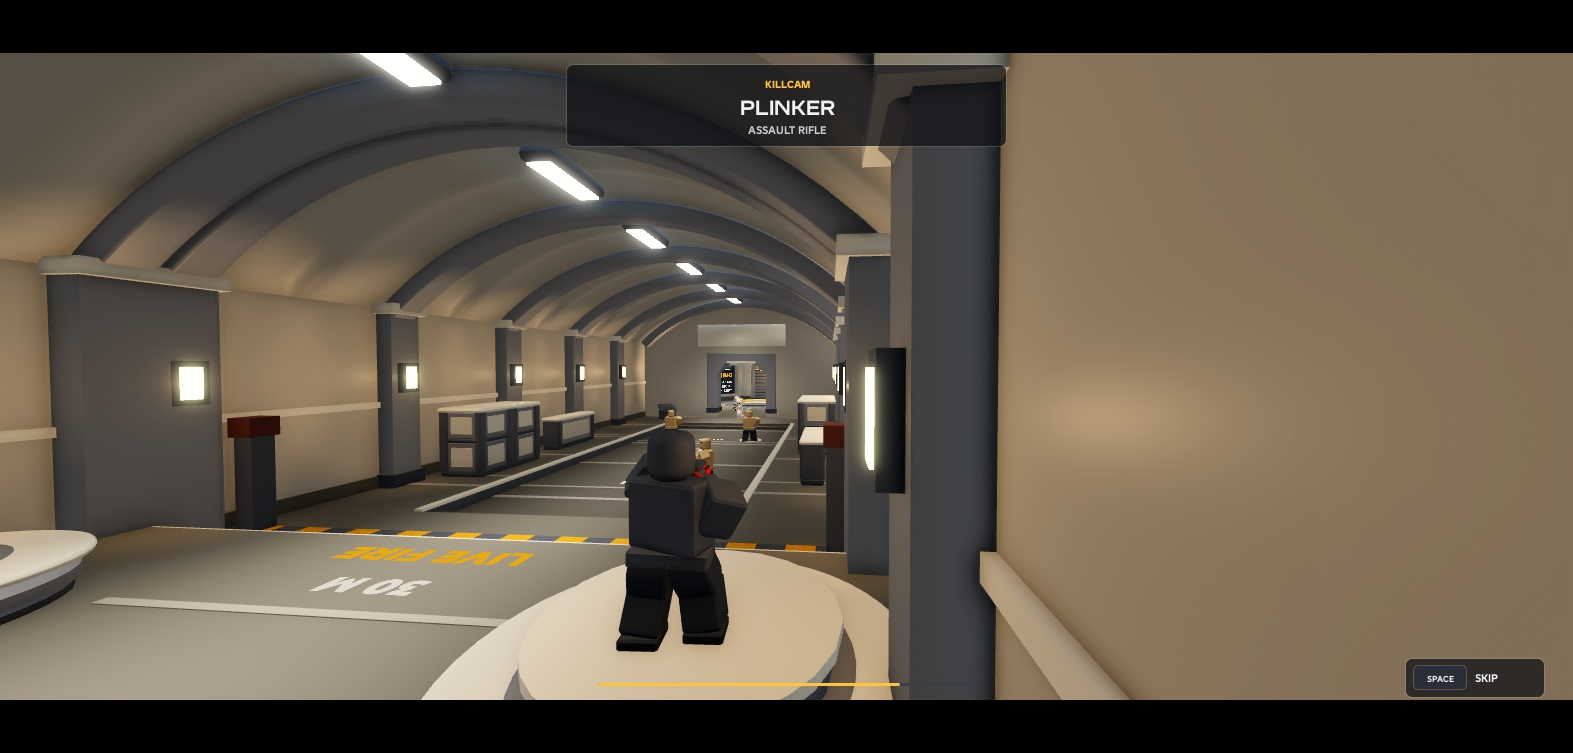
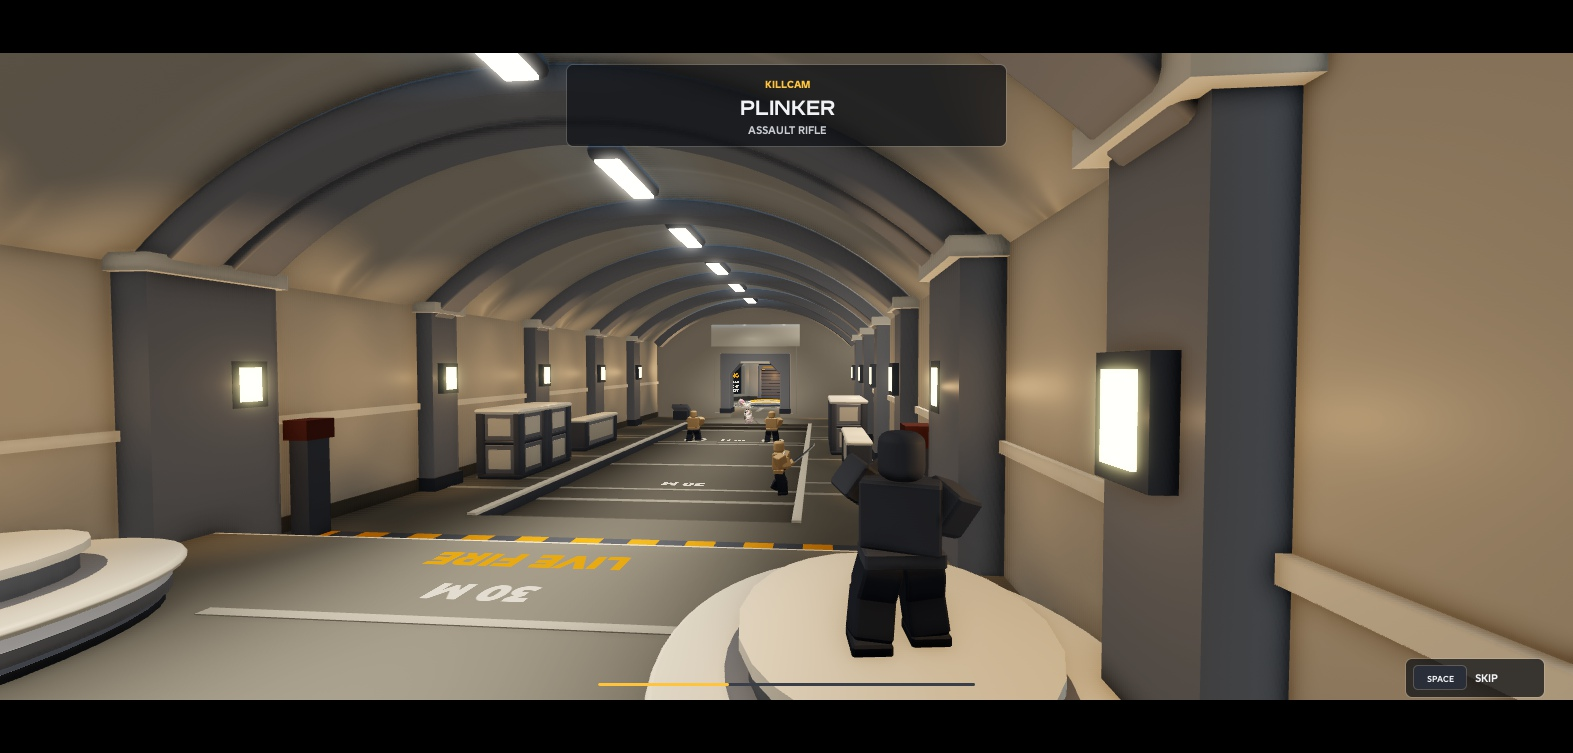
Roblox replays: the camera wants room beside its shoulder and looks nearer from raised spots; photos re-shot (place version 531)

diff --git a/roblox/docs/REPLAY.md b/roblox/docs/REPLAY.md
@@ -71,6 +71,9 @@ clip = {
 
 ![the play of the match](replay/play_of_the_match.jpg)
 ![a killcam](replay/killcam.jpg)
+![the same play, starting in the hub](replay/play_of_the_match_hub.jpg)
+
+**The camera (re-shot at place version 531).** Most of the map's kit has CanQuery off, so a raycast passes through it, and the first photos had a pillar filling a third of the frame. The replay camera now tests the boxes of the solid map parts near the action itself, like a popper cam. It tries the hero's shoulder, the other shoulder, up and behind, then higher and closer spots, and it wants room beside a shoulder spot (no wall right next to the lens). A raised spot looks at a nearer point, so the hero stays in the frame, and the hero fades when the lens gets close.
 
 **The test.** A Studio Play test recorded the training hall: me plus all 32 dummies, so 33 fighters. I killed two
 dummies, then:
